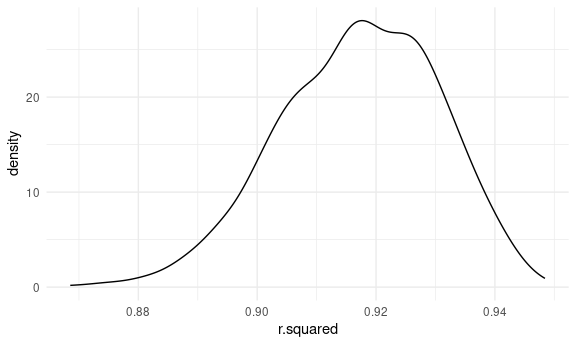
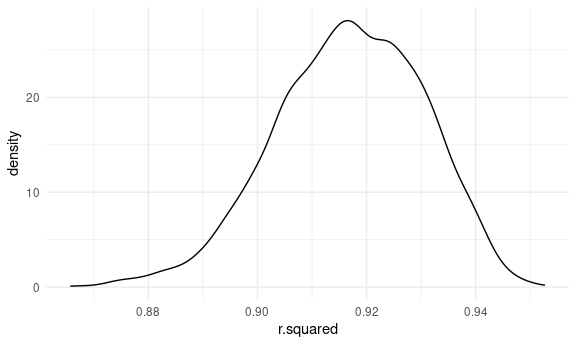
established my model for #3, plotted predicted and residuals, and compared 2 given models with my own.

diff --git a/p8105_hw6_co2554.md b/p8105_hw6_co2554.md
@@ -225,7 +225,7 @@ r_squared =
 # bootstrap 5000 times
 
 weather_iter =
-  tibble(strap_number = 1:1000) |> #kept temporarily at 1000
+  tibble(strap_number = 1:5000) |> 
   mutate(
     strap_sample = map(strap_number, \(i) weather_boot(weather_df))) |> 
   unnest(strap_sample)
@@ -251,6 +251,9 @@ weather_iter |>
 
 <img src="p8105_hw6_co2554_files/figure-gfm/plots-2.png" width="90%" />
 
+Out of 5000 values of log(β1\*β2), \_\_\_\_ were removed from the
+analysis due to “N/A” values.
+
 The distribution of r^2 and log(β̂\_1∗β̂\_2) are approximately normal.
 
 With the 5000 bootstrap estimates, let’s create a 95% Confidence
@@ -274,7 +277,11 @@ weather_iter |>
 | quantity        |  ci_LL |  ci_UL |
 |:----------------|-------:|-------:|
 | log_coefficient |     NA |     NA |
-| r.squared       | 0.8892 | 0.9405 |
+| r.squared       | 0.8885 | 0.9407 |
+
+For r^2, the 95% Confidence Limit is (0.8885, 0.9407). The log
+coefficients confidence limit was not able to be computed due to the Nan
+values.
 
 ### Problem 3
 
@@ -287,7 +294,10 @@ bw =
   read_csv("data/birthweight.csv") |> 
   janitor::clean_names() |> 
   mutate(
-    babysex = as.factor(babysex)
+    babysex = as.factor(babysex), 
+    frace = as.factor(frace), 
+    malform = as.factor(malform), 
+    mrace = as.factor(mrace)
   )
 ```
 
@@ -302,5 +312,55 @@ bw =
 Let’s create a linear regression model for this data.
 
 ``` r
-model_birth = lm(bwt ~ babysex + gaweeks + fincome + wtgain, data = bw)
+model_birth =
+  bw |> 
+  lm(bwt ~ babysex + blength + gaweeks + fincome + wtgain, data = _)
 ```
+
+I want to test if the sex of a child (`babysex`), the length of the
+child at birth (`blength`), the gestational age in weeks (`gaweeks`),
+family monthly income (`fincome`), and mother’s weight gain (`wtgain`)
+are significant predictors of a child’s birth weight. There is sound
+evidence that males are born at a higher weight than female children,
+and longer babies result in higher weighing babies. Older gestational
+age makes sense to contribute to higher weighing babies, as well as
+higher family incomes and higher amounts of weight gained by the mother
+carrying the child.
+
+Now, I will plot model residuals against predicted values.
+
+``` r
+bw |> 
+  modelr::add_predictions(model_birth) |> 
+  modelr::add_residuals(model_birth) |> 
+  ggplot(aes(x = pred, y = resid)) + 
+  geom_point() + 
+  labs(title = "Residuals vs. Fitted Values",
+       x = "Fitted Values",
+       y = "Residuals") 
+```
+
+<img src="p8105_hw6_co2554_files/figure-gfm/residual_predicted-1.png" width="90%" />
+
+Let’s compare the model I made to our two given models using
+`gather_predictions`.
+
+``` r
+model_comp1= 
+  bw |> 
+  lm(bwt ~ blength + gaweeks, data = _)
+
+model_comp2=
+  bw |> 
+  lm(bwt ~ babysex * bhead * blength, data = _)
+
+bw |> 
+  gather_predictions(model_birth, model_comp1, model_comp2) |> 
+  mutate(model = fct_inorder(model)) |> 
+  ggplot(aes(x = blength, y = bwt)) + 
+  geom_point(alpha = .5) +
+  geom_line(aes(y = pred), color = "red") + 
+  facet_grid(~model)
+```
+
+<img src="p8105_hw6_co2554_files/figure-gfm/compare-1.png" width="90%" />
